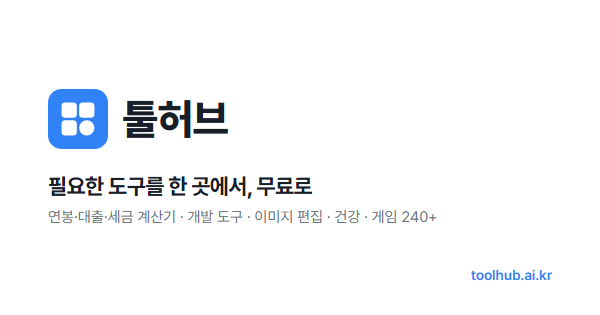
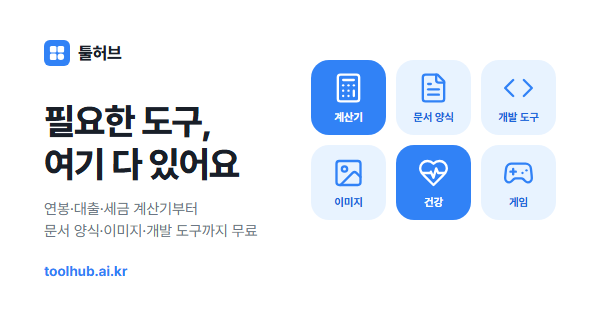
fix: 홈 SNS 공유 이미지를 토스 스타일로 교체(AI 생성풍 이미지 제거) — scripts/generate-home-og.mjs, URL ?v=2로 미리보기 캐시 무효화

diff --git a/src/app/layout.tsx b/src/app/layout.tsx
@@ -58,13 +58,13 @@ export const metadata: Metadata = {
     description: '연봉, 대출, 시간변환부터 바코드 생성, JSON 포맷터까지 모든 계산을 한 곳에서 해결하세요',
     images: [
       {
-        url: 'https://toolhub.ai.kr/og-image-1200x630.png',
+        url: 'https://toolhub.ai.kr/og-image-1200x630.png?v=2',
         width: 1200,
         height: 630,
         alt: '툴허브 - 온라인 계산기와 개발자 도구 모음',
       },
       {
-        url: 'https://toolhub.ai.kr/og-image-600x315.png',
+        url: 'https://toolhub.ai.kr/og-image-600x315.png?v=2',
         width: 600,
         height: 315,
         alt: '툴허브 - 온라인 계산기와 개발자 도구 모음',
@@ -77,7 +77,7 @@ export const metadata: Metadata = {
     creator: '@toolhub_kr',
     title: '툴허브 - 필수 계산기와 개발자 도구 모음',
     description: '연봉, 대출, 시간변환부터 바코드 생성까지 모든 계산을 한 곳에서',
-    images: ['https://toolhub.ai.kr/og-image-1200x630.png'],
+    images: ['https://toolhub.ai.kr/og-image-1200x630.png?v=2'],
   },
   robots: {
     index: true,

diff --git a/src/components/CategoryHubPage.tsx b/src/components/CategoryHubPage.tsx
@@ -90,7 +90,7 @@ export function hubMetadata(category: HubKey): Metadata {
     title: c.title,
     description: c.description,
     keywords: c.keywords,
-    openGraph: { title: c.title, description: c.description, url, siteName: '툴허브', locale: 'ko_KR', type: 'website', images: [{ url: 'https://toolhub.ai.kr/og-image-1200x630.png', width: 1200, height: 630 }] },
+    openGraph: { title: c.title, description: c.description, url, siteName: '툴허브', locale: 'ko_KR', type: 'website', images: [{ url: 'https://toolhub.ai.kr/og-image-1200x630.png?v=2', width: 1200, height: 630 }] },
     twitter: { card: 'summary_large_image', title: c.title, description: c.description },
     alternates: { canonical: url },
   }

diff --git a/src/app/page.tsx b/src/app/page.tsx
@@ -15,7 +15,7 @@ export const metadata: Metadata = {
     type: 'website',
     images: [
       {
-        url: 'https://toolhub.ai.kr/og-image-1200x630.png',
+        url: 'https://toolhub.ai.kr/og-image-1200x630.png?v=2',
         width: 1200,
         height: 630,
         alt: '툴허브 - 240+ 무료 온라인 도구 모음',
@@ -26,7 +26,7 @@ export const metadata: Metadata = {
     card: 'summary_large_image',
     title: '툴허브 - 240+ 무료 온라인 도구 모음',
     description: '금융, 개발, 건강, 게임까지 240+ 무료 도구',
-    images: ['https://toolhub.ai.kr/og-image-1200x630.png'],
+    images: ['https://toolhub.ai.kr/og-image-1200x630.png?v=2'],
   },
   robots: {
     index: true,
